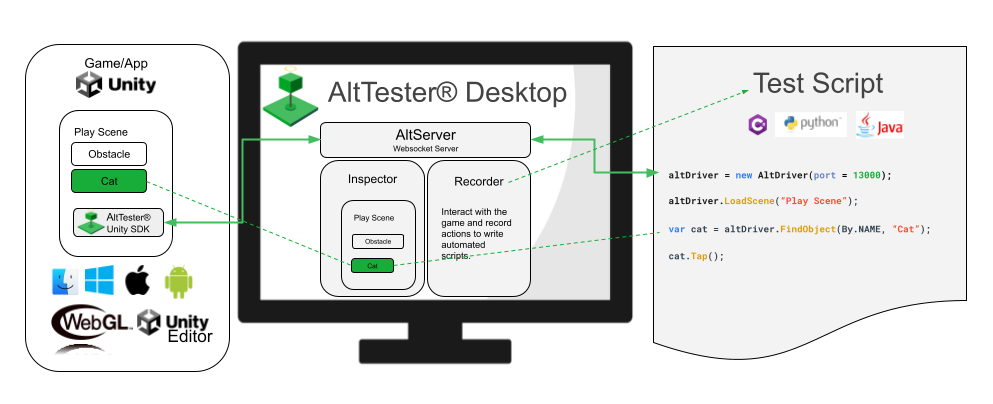
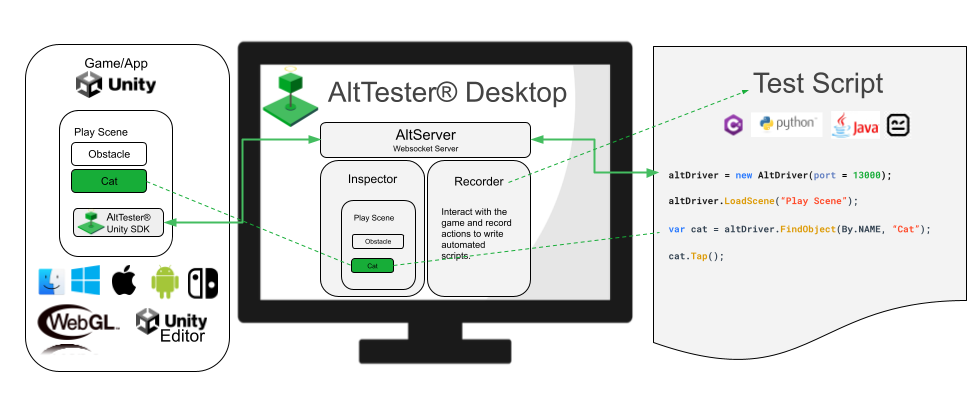
updated docs

diff --git a/Docs/source/pages/known-issues.rst b/Docs/source/pages/known-issues.rst
@@ -49,7 +49,7 @@ The PressKey command does not work
 ``wasPressedThisFrame`` and ``wasReleasedThisFrame*``. Use ``isPressed``
 instead.
 
-**Affects**: AltUnity Tester v1.7.1, v1.7.2, AltTester® Unity SDK v1.8.*, v2.0.x
+**Affects**: AltUnity Tester v1.7.1, v1.7.2, AltTester® Unity SDK v1.8.*, v2.0.x, v2.x
 
 Player Input is not working when connected to AltTester® Unity SDK/Desktop
 ~~~~~~~~~~~~~~~~~~~~~~~~~~~~~~~~~~~~~~~~~~~~~~~~~~~~~~~~~~~~~~~~~~~~~~~~~
@@ -71,7 +71,7 @@ Playing in Editor throws ``EntryPointNotFoundException: WebSocketSetOnOpen assem
 
 **Workaround**: Select a platform other than WebGL before Editor and if the error is still thrown while playing in Editor re-start de Unity project
 
-**Affects**: AltTester® Unity SDK v2.0.x
+**Affects**: AltTester® Unity SDK v2.0.x, v2.x
 
 Play in Editor does not start the instrumented app in the Unity Editor
 ~~~~~~~~~~~~~~~~~~~~~~~~~~~~~~~~~~~~~~~~~~~~~~~~~~~~~~~~~~~~~~~~~~~~~~~~~~~~~~~~~~~~~~~~~~~~~~~~~~~~~~~~~~~~~~~~~~~~~~~~~~~~~~~~~~~~~~~~~~
@@ -114,7 +114,7 @@ AltTester® does not support proxy configurations
 
 **Problem**: At the moment, AltTester® does not have built-in support for proxy configurations. When using AltTester®, the tool does not handle proxy settings, which can cause connectivity issues
 
-**Affects**: AltUnity Tester v1.7.1, v1.7.2, AltTester® Unity SDK v1.8.*, v2.0.x
+**Affects**: AltUnity Tester v1.7.1, v1.7.2, AltTester® Unity SDK v1.8.*, v2.0.x, v2.x
 
 WegGL app disconnects
 ---------------------

diff --git a/Docs/source/pages/overview.md b/Docs/source/pages/overview.md
@@ -1,6 +1,6 @@
 # Overview
 
-AltTester® Unity SDK is an open-source UI driven test automation tool that helps you find objects in your Unity application and interact with them using tests written in C#, Python or Java.
+AltTester® Unity SDK is an open-source UI driven test automation tool that helps you find objects in your Unity application and interact with them using tests written in C#, Python, Java or Robot Framework.
 
 You can run your tests on real devices (mobile, PCs, etc.) or inside the Unity Editor.
 
@@ -13,7 +13,7 @@ You can run your tests on real devices (mobile, PCs, etc.) or inside the Unity E
 - manipulate and generate test data
 - get screenshots from your Unity App
 - instrument your app and run C# tests from within the Unity Editor using the AltTester Editor window
-- run C#, Python or Java tests using your favorite IDE and against the app running on a device or inside the Unity Editor
+- run C#, Python, Java or Robot Framework tests using your favorite IDE and against the app running on a device or inside the Unity Editor
 - integrate with Appium tests for the ability to interact with native elements
 - support for Browserstack on Android and iOS
 - see test results and reports inside the Unity Editor

diff --git a/Docs/source/pages/faq-troubleshooting.md b/Docs/source/pages/faq-troubleshooting.md
@@ -10,7 +10,7 @@ PC, Mac, Android, iOS and Unity Editor; support for WebGL and Consoles is work i
 <details>
 <summary> What programming language can I use to write tests?</summary>
 <br>
- C#, Python and Java.
+ C#, Python, Java or Robot Framework.
 </details>
 <br>
 
@@ -74,12 +74,12 @@ You get this error due to multiple imports of Newtonsoft.Json.dll library. You c
 <br>
 You get this error because you don't have a reference to Newtonsoft.Json package.
 <br>
-Add `"com.unity.nuget.newtonsoft-json": "3.0.1"` to your project `manifest.json`, inside `dependencies`.
+Add `"com.unity.nuget.newtonsoft-json": "3.1.0"` to your project `manifest.json`, inside `dependencies`.
 
 ```
 {
     "dependencies": {
-        "com.unity.nuget.newtonsoft-json": "3.0.1"
+        "com.unity.nuget.newtonsoft-json": "3.1.0"
     }
 }
 ```

diff --git a/Docs/source/pages/advanced-usage.md b/Docs/source/pages/advanced-usage.md
@@ -496,6 +496,12 @@ Keep in mind that, the tags given in the constructor will choose one random free
     In order to ensure that the `dotnet test` command is executed multiple times concurrently within the same terminal add an `&` at the end of the command to run it in the background.
 ```
 
+```eval_rst
+.. note::
+
+    Make sure that your **app names are different** in case you started multiple instrumented apps on the **same device**, otherwise your tests might fail because they are using the same resources (ex. values saved to `PlayerPref`).
+```
+
 Ex1. Let's say we want to run a set of tests on all apps started on Windows 11 (the exact platform version is displayed in the green popup and in AltTester® Desktop). For that, use the following code snippet:
 
 ```eval_rst

diff --git a/Docs/source/pages/get-started.md b/Docs/source/pages/get-started.md
@@ -40,12 +40,12 @@ To instrument your Unity application with AltTester® Unity SDK you first need t
 
 -   Newtonsoft.Json
 
-In order for AltTester® Unity SDK to work you need dependency for Newtonsoft.Json. Add `"com.unity.nuget.newtonsoft-json": "3.0.1"` to your project `manifest.json`, inside `dependencies`.
+In order for AltTester® Unity SDK to work you need dependency for Newtonsoft.Json. Add `"com.unity.nuget.newtonsoft-json": "3.1.0"` to your project `manifest.json`, inside `dependencies`.
 
 ```json
 {
     "dependencies": {
-        "com.unity.nuget.newtonsoft-json": "3.0.1"
+        "com.unity.nuget.newtonsoft-json": "3.1.0"
     }
 }
 ```

diff --git a/Bindings~/python/README.md b/Bindings~/python/README.md
@@ -2,7 +2,7 @@
 
 This package contains an library for adding Python language binding to the AltTester® framework.
 
-AltTester® Unity SDK is an open-source UI driven test automation tool that helps you find objects in your application and interacts with them using tests written in C#, Python or Java.
+AltTester® Unity SDK is an open-source UI driven test automation tool that helps you find objects in your application and interacts with them using tests written in C#, Python, Java or Robot Framework.
 
 You can run your tests on real devices (mobile, PCs, etc.) or inside the Unity Editor.
 

diff --git a/Bindings~/dotnet/README.md b/Bindings~/dotnet/README.md
@@ -1,6 +1,6 @@
 # AltTester® Unity SDK - .NET Bindings
 
-AltTester® Unity SDK is an open-source UI driven test automation tool that helps you find objects in your application and interacts with them using tests written in C#, Python or Java.
+AltTester® Unity SDK is an open-source UI driven test automation tool that helps you find objects in your application and interacts with them using tests written in C#, Python, Java or Robot Framework.
 
 Read the documentation on https://altom.com/alttester/docs/pro/sdk/
 

diff --git a/Bindings~/java/README.md b/Bindings~/java/README.md
@@ -1,6 +1,6 @@
 # AltTester® Unity SDK - Java Bindings
 
-AltTester® Unity SDK is an open-source UI driven test automation tool that helps you find objects in your application and interacts with them using tests written in C#, Python or Java.
+AltTester® Unity SDK is an open-source UI driven test automation tool that helps you find objects in your application and interacts with them using tests written in C#, Python, Java or Robot Framework.
 
 Read the documentation on https://alttester.com/docs/sdk/latest/
 

diff --git a/Assets/AltTester/README.md b/Assets/AltTester/README.md
@@ -1,6 +1,6 @@
 # AltTester® Unity SDK
 
-AltTester® Unity SDK is an open-source UI driven test automation tool that helps you find objects in your application and interacts with them using tests written in C#, Python or Java.
+AltTester® Unity SDK is an open-source UI driven test automation tool that helps you find objects in your application and interacts with them using tests written in C#, Python, Java or Robot Framework.
 
 ## Documentation
 

diff --git a/Assets/README.md b/Assets/README.md
@@ -1,6 +1,6 @@
 # AltTester® Unity SDK
 
-AltTester® Unity SDK is an open-source UI driven test automation tool that helps you find objects in your application and interacts with them using tests written in C#, Python or Java.
+AltTester® Unity SDK is an open-source UI driven test automation tool that helps you find objects in your application and interacts with them using tests written in C#, Python, Java or Robot Framework.
 
 ## Documentation
 

diff --git a/README.md b/README.md
@@ -1,6 +1,6 @@
 # AltTester® Unity SDK
 
-AltTester® Unity SDK is an open-source UI driven test automation tool that helps you find objects in your application and interacts with them using tests written in C#, Python or Java.
+AltTester® Unity SDK is an open-source UI driven test automation tool that helps you find objects in your application and interacts with them using tests written in C#, Python, Java or Robot Framework.
 
 ## Documentation
 
